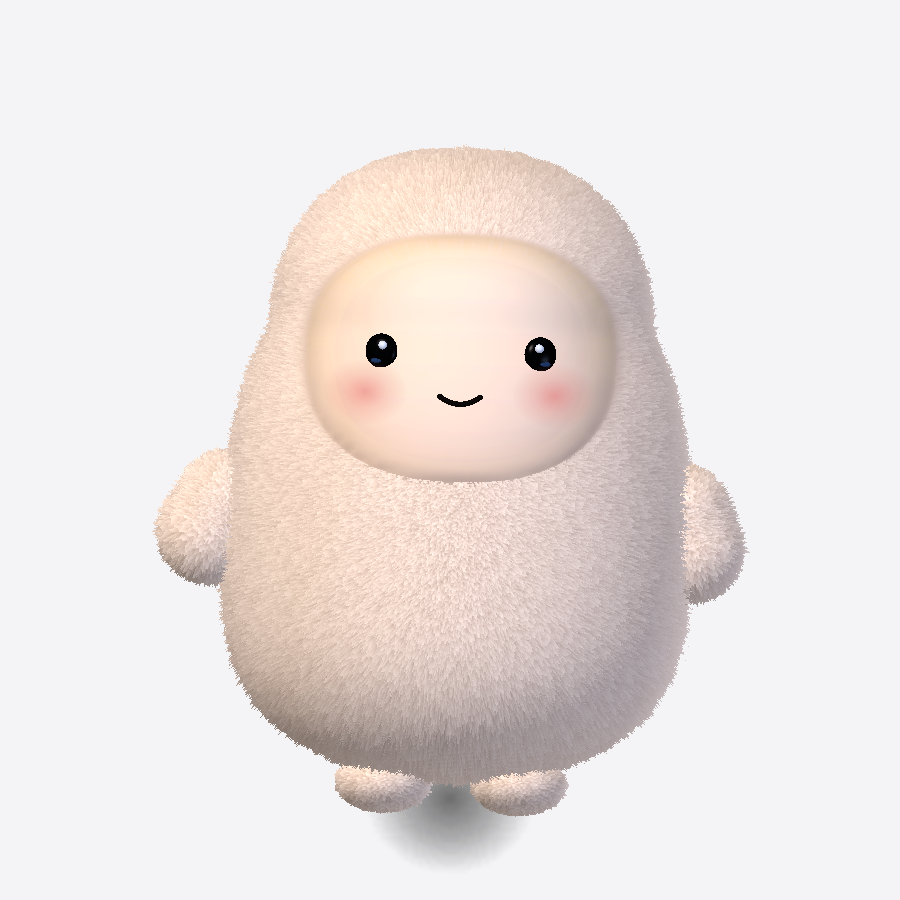
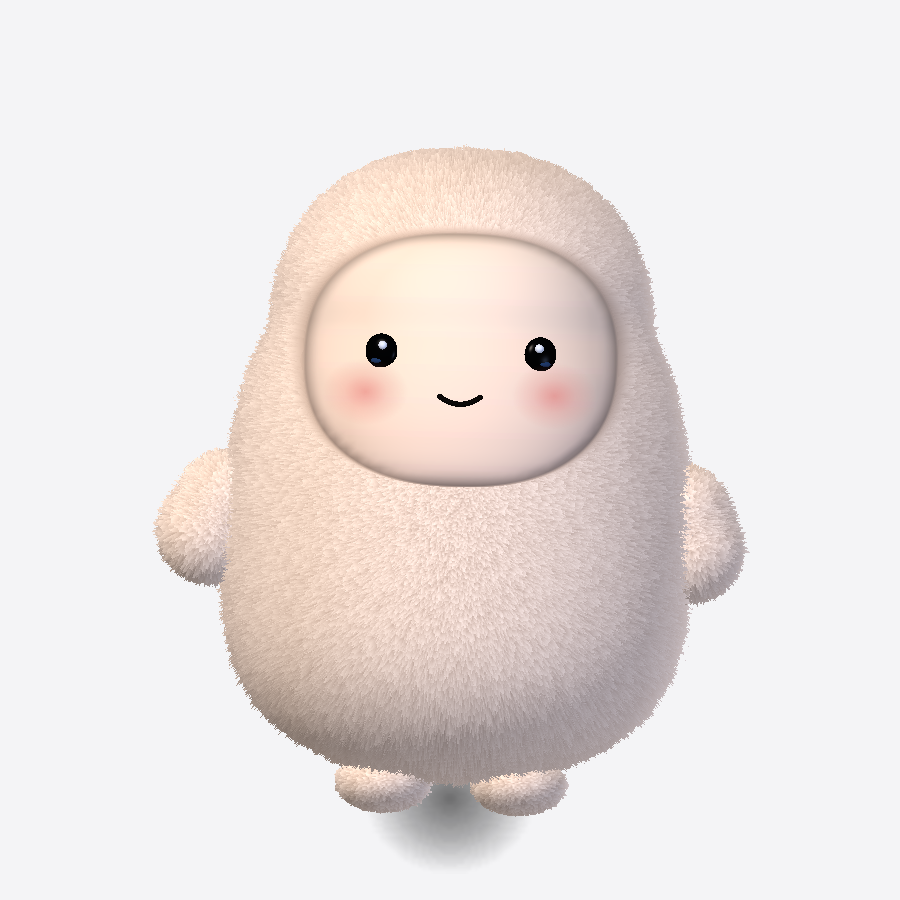
Crisp face/fur boundary with thin contact shadow

diff --git a/Sources/Pip/PipRig.swift b/Sources/Pip/PipRig.swift
@@ -412,35 +412,21 @@ final class PipRig: PetRig {
                 let pw = 2.35   // 横向的圆头椭圆：比正椭圆两头更圆（正椭圆贴在弧面上两头会显尖）
                 let rho = pow(pow(abs(nx), pw) + pow(abs(ny), pw), 1 / pw)
 
+                // 清楚的轮廓：只留最外 1.5% 做抗锯齿，不再羽化、不再画「盖进来的毛」
                 var alpha = 1.0
-                var furCover = 0.0
-                if rho > featherStart {
-                    let t = min(1, (rho - featherStart) / (featherEnd - featherStart))
-                    let angle = atan2(ny, nx) + .pi
-                    let k = Int(angle / (2 * .pi) * Double(strands.count)) % strands.count
-                    let reach = 0.25 + 0.75 * strands[k]          // 这根毛盖进来多深
-                    // 毛只从头顶和两侧盖进来；下半圈（ny > 0.25，图片里 y 向下）是干净的下巴
-                    let hoodMask = max(0, min(1, (0.25 - ny) / 0.35))
-                    if t > 1 - reach { furCover = min(1, (t - (1 - reach)) / max(reach, 0.01) * 1.6) * hoodMask }
-                    alpha = 1 - pow(t, 6)                          // 只在最外缘才真正透明
-                }
+                if rho > 0.985 { alpha = max(0, 1 - (rho - 0.985) / 0.015) }
 
                 let t = (ny + 1) / 2
                 var r = top.r + (bottom.r - top.r) * t
                 var g = top.g + (bottom.g - top.g) * t
                 var b = top.b + (bottom.b - top.b) * t
 
-                // 越靠边缘越往暖褐收，读起来是脸的弧度转进去，而不是一张发光的白纸
-                let v = min(1, max(0, (rho - 0.55) / 0.45))
-                let shade = v * v * (3 - 2 * v) * 0.25
-                r += (rimTone.r - r) * shade
-                g += (rimTone.g - g) * shade
-                b += (rimTone.b - b) * shade
-                // 盖进来的绒毛：用毛尖色
-                let tip = (r: 0.957, g: 0.925, b: 0.878)
-                r += (tip.r - r) * furCover
-                g += (tip.g - g) * furCover
-                b += (tip.b - b) * furCover
+                // 脸和毛的接缝处一道淡淡的接触阴影（很窄），轮廓更利落、更立体
+                let v = min(1, max(0, (rho - 0.90) / 0.10))
+                let shade = v * v * 0.16
+                r *= 1 - shade
+                g *= 1 - shade * 1.05
+                b *= 1 - shade * 1.08
 
                 let index = (y * size + x) * 4
                 pixels[index]     = UInt8(max(0, min(255, r * alpha * 255)))

diff --git a/Sources/Pip/Fur.swift b/Sources/Pip/Fur.swift
@@ -69,7 +69,7 @@ enum Fur {
     if (furH > 0.0 && faceHole.z > 0.0 && in.furModelPos.z > 0.0) {
         float2 d = abs((in.furModelPos.xy - faceHole.xy) / faceHole.zw);
         float r = pow(pow(d.x, 2.35) + pow(d.y, 2.35), 1.0 / 2.35);
-        if (r < 0.96) { discard_fragment(); }
+        if (r < 1.0) { discard_fragment(); }   // 禁区和脸一样大：毛到脸边干脆停住
     }
     float strand = _surface.emission.r;
     if (furH > 0.0 && strand < furH) { discard_fragment(); }

diff --git a/HANDOFF.md b/HANDOFF.md
@@ -235,3 +235,4 @@ swift build                 # 调试编译
   按网格重算法线、lambert 打光，带粉的瓷白。
 - 眼睛小一号（2.35）、blinn 高光 + 下方淡蓝反光；嘴更小（半宽 2.7）；腮红更大更粉。五官都贴着鼓包。
 - 11-05 再调：脸 42×34、超椭圆指数 2.35（2.15 两头尖、2.7 四角方）；毛剪短到 3.3、贴图 9×3.9 更密、下垂 0.12、根部阴影 0.9、毛长分布 pow 0.5（不结缕，之前像淋湿）；眼距 ±10.6、腮红 ±12.6。
+- 11-05 脸边改利落：去掉羽化和「盖进来的毛」，只留 1.5% 抗锯齿 + 一道窄接触阴影；绒毛禁区 r<1.0 与脸同大。
